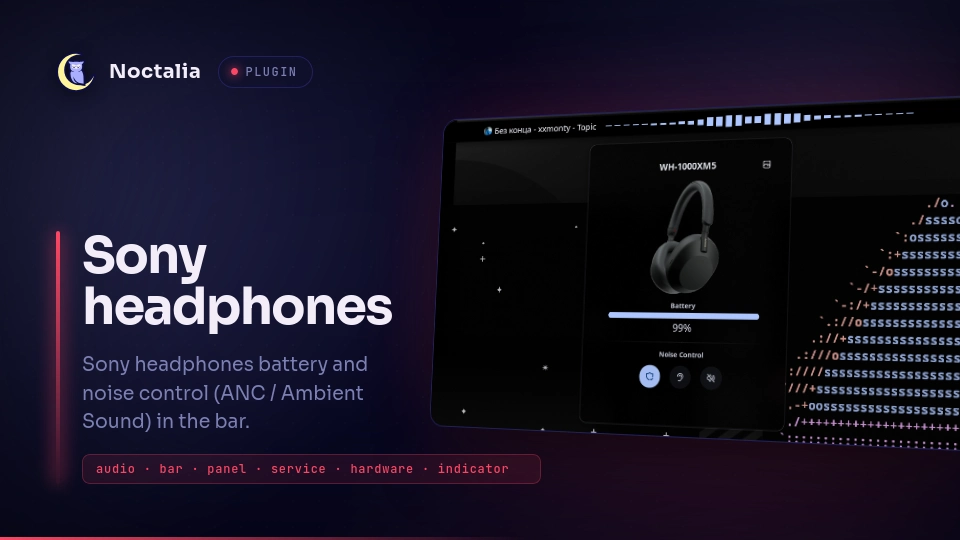
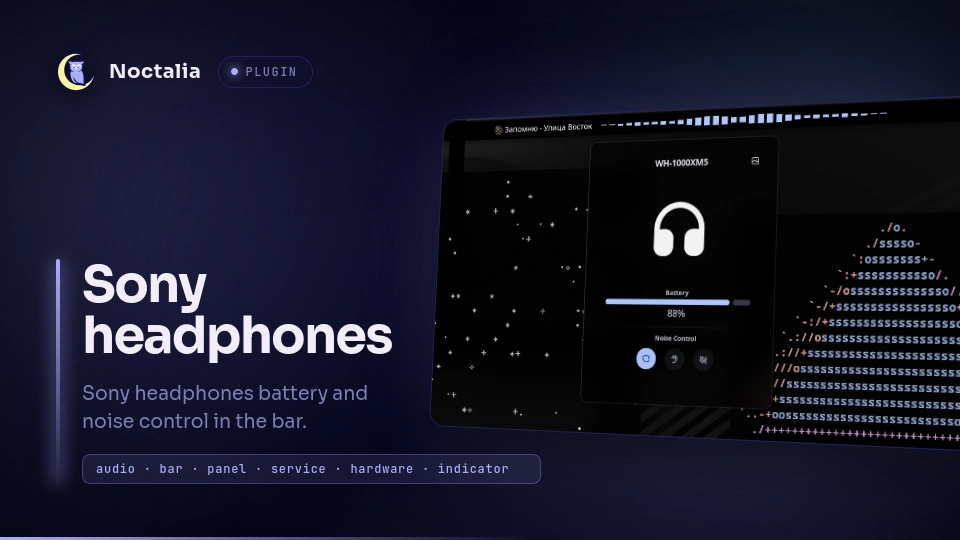
Sony Headphones: use generic Tabler symbols as artwork (v0.1.2)

diff --git a/sony_headphones/assets/README.md b/sony_headphones/assets/README.md
@@ -1,24 +1,30 @@
 # Device artwork
 
-The images in this directory are **original artwork** created for this plugin:
-stylised, flat illustrations of over-ear and in-ear headphones. They are part
-of the plugin and licensed under its MIT license — no third-party product
-photography, vendor render, or trademarked logo is included.
+Generic headphone **symbols** used as temporary placeholders. No Sony product
+photography, vendor render, or trademarked logo is bundled.
 
-Each `.webp` is rasterised from the matching `.svg` source next to it. Regenerate
-or tweak the set with:
+## Provenance & license
 
-```sh
-python3 tools/generate_art.py           # writes the .svg sources
-for f in assets/*.svg; do
-  rsvg-convert -o /tmp/art.png "$f"
-  magick /tmp/art.png -quality 92 "${f%.svg}.webp"
-done
-```
+- **Source:** [Tabler Icons](https://tabler.io/icons) — the `headphones`
+  (filled) icon for over-ear models and the `device-airpods` (outline) icon for
+  true-wireless models. Pristine upstream copies are in `sources/`.
+- **Author:** Paweł Kuna / Tabler Icons.
+- **License:** MIT. The full text is in
+  [`LICENSES/Tabler-Icons-MIT.txt`](LICENSES/Tabler-Icons-MIT.txt).
+- **Modifications:** recoloured (black/white) and centred on a transparent
+  400×350 canvas. The `.webp` files are rasterised from the SVGs with:
 
-Files:
+  ```sh
+  rsvg-convert -w 240 -h 240 -o /tmp/icon.png sources/tabler-headphones-filled.svg
+  magick /tmp/icon.png -gravity center -background none -extent 400x350 over_ear_black.webp
+  ```
 
-- `over_ear_{black,white,silver,lavender}.webp` — over-ear models
+These are placeholders; the author plans to replace them with their own
+hand-drawn sketches under the same MIT license and the same file names.
+
+## Files
+
+- `over_ear_{black,white}.webp` — over-ear models
 - `in_ear_{black,white}.webp` — true-wireless models
 
 The per-model mapping lives in `DEVICE_ART` in `panel.luau`; the panel header

diff --git a/sony_headphones/README.md b/sony_headphones/README.md
@@ -92,8 +92,9 @@ noise-control bytes differ per generation.
 | WF-1000XM5 / WF-1000XM4 | ✅ BlueZ | ⚠ untested V2 subtypes | please report |
 | LinkBuds / WH-CH720N / ULT | ✅ BlueZ | ⚠ untested | please report |
 
-The bundled artwork is original, stylised flat art shipped with the plugin
-(MIT; see [`assets/README.md`](assets/README.md) and the
-[`tools/generate_art.py`](tools/generate_art.py) generator). It maps over-ear
-models and true-wireless models to colour variants; lookup is
-case-insensitive and accepts alternate Bluetooth names.
+The bundled artwork is a pair of generic headphone symbols from
+[Tabler Icons](https://tabler.io/icons) (MIT; see
+[`assets/README.md`](assets/README.md) and the bundled license text). They map
+over-ear and true-wireless models to black/white variants; lookup is
+case-insensitive and accepts alternate Bluetooth names. The symbols are
+temporary placeholders for the author's own sketches.
